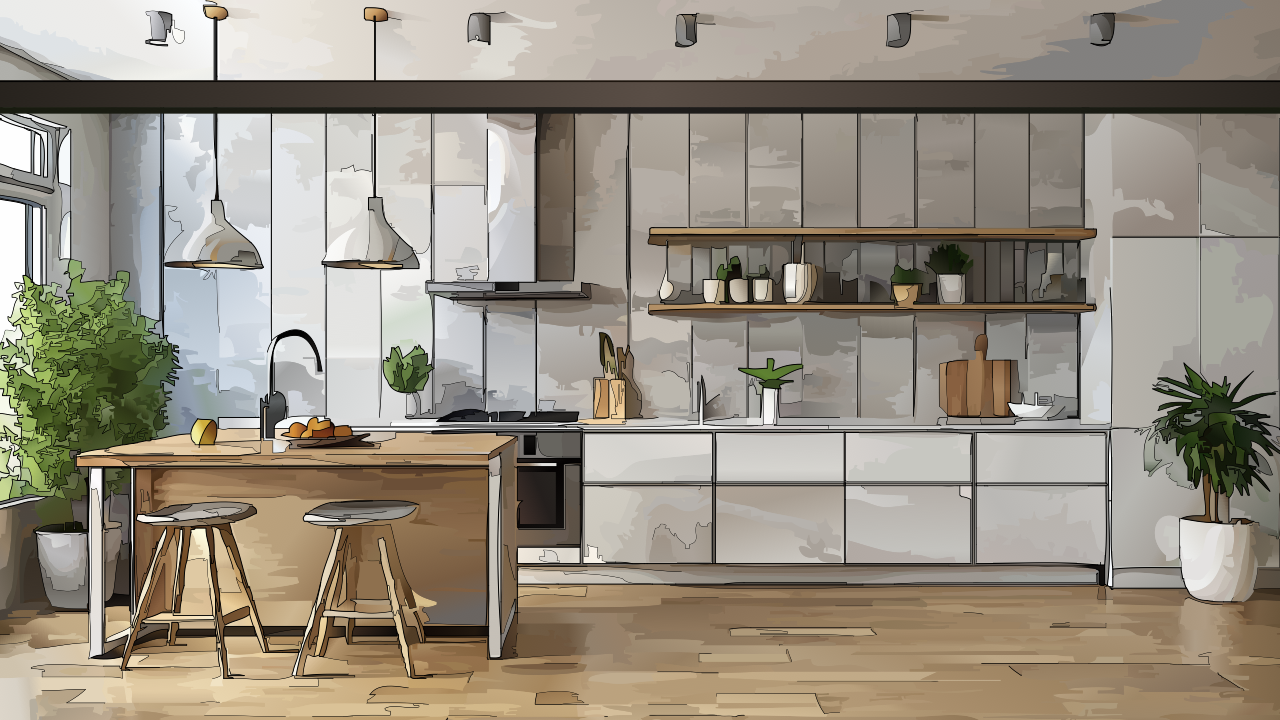
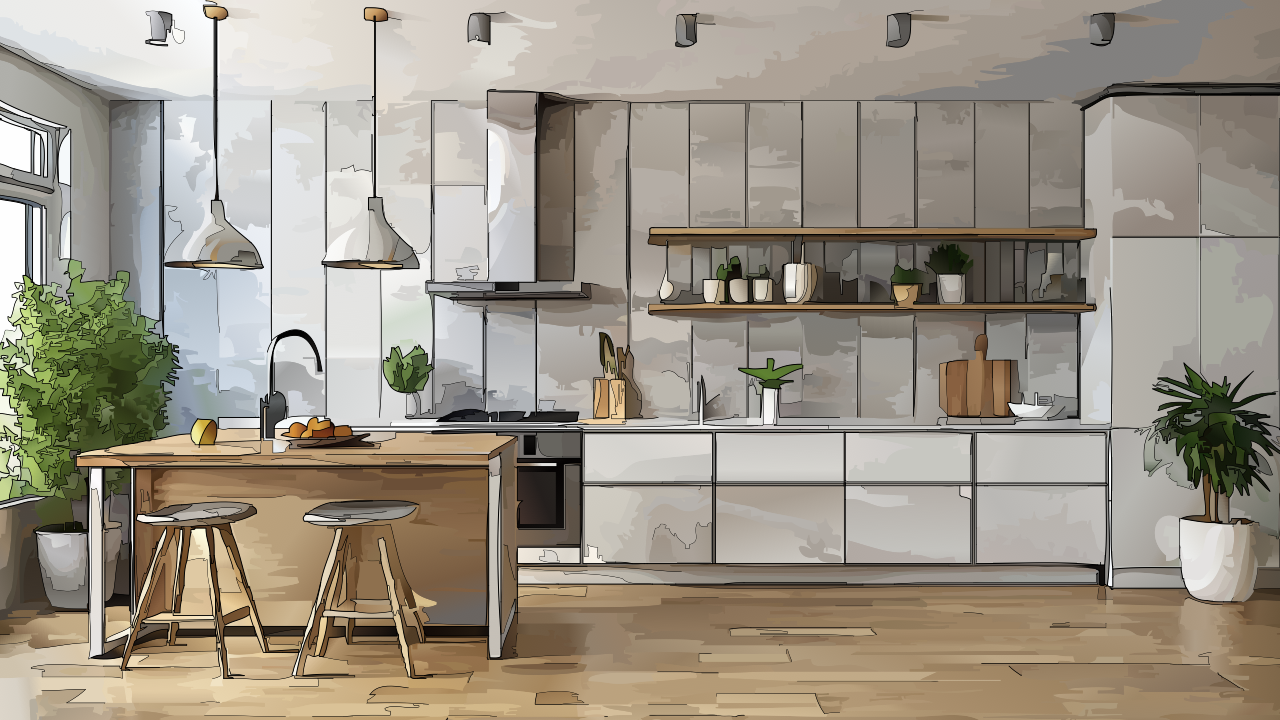
Resize hens and move beam (#22)
* Increase level time

* Replace kitchen bg image without beam

* Resize hens and specify beam dimensions and position

* Update chef sprite after merge problem

Changed region(s): [[0.0, 0.0917, 1.0, 0.1833]]

diff --git a/src/App.tsx b/src/App.tsx
@@ -45,7 +45,7 @@ function KonvaStageAndBackground({ children }: { children: React.ReactNode }) {
 		})
 	);
 
-	const [bgImage] = useImage('images/kitchen-bg-4.png');
+	const [kitchenBgImage] = useImage('images/kitchen-bg-4.png');
 	const [henBeamImage] = useImage('images/hen-beam-gray.png');
 	const [titleImage] = useImage('images/egg-drop-title-0.png');
 
@@ -61,7 +61,7 @@ function KonvaStageAndBackground({ children }: { children: React.ReactNode }) {
 					{/* Background kitchen image */}
 					<Group>
 						<Image
-							image={bgImage}
+							image={kitchenBgImage}
 							width={gameConfig.stageDimensions.width}
 							height={gameConfig.stageDimensions.height}
 						/>
@@ -75,9 +75,10 @@ function KonvaStageAndBackground({ children }: { children: React.ReactNode }) {
 						/>
 						<Image
 							image={henBeamImage}
-							width={gameConfig.stageDimensions.width}
-							height={35}
-							y={80}
+							width={gameConfig.henBeam.width}
+							height={gameConfig.henBeam.height}
+							x={gameConfig.henBeam.x}
+							y={gameConfig.henBeam.y}
 						/>
 					</Group>
 					{showGameIntro && (

diff --git a/src/Hen/Hen.tsx b/src/Hen/Hen.tsx
@@ -30,6 +30,7 @@ export function Hen({
 	henActorRef: ActorRefFrom<typeof henMachine>;
 }) {
 	const {
+		henSize,
 		henFrames,
 		position,
 		isLaying,
@@ -37,6 +38,10 @@ export function Hen({
 		movingDirection,
 		absoluteTweenSpeed,
 	} = useSelector(henActorRef, (state) => ({
+		henSize: {
+			width: state.context.gameConfig.hen.width,
+			height: state.context.gameConfig.hen.height,
+		},
 		henFrames: state.context.henAssets.sprite.frames,
 		position: state.context.position,
 		isMoving: state.matches('Moving'),
@@ -125,8 +130,8 @@ export function Hen({
 			image={image}
 			x={position.x}
 			y={position.y}
-			width={80}
-			height={80}
+			width={henSize.width}
+			height={henSize.height}
 			crop={{
 				x: currentFrame.x,
 				y: currentFrame.y,

diff --git a/src/GameLevel/gameConfig.ts b/src/GameLevel/gameConfig.ts
@@ -13,7 +13,7 @@ export function getGameConfig() {
 	// Somewhere between 0.25 and 0.75 is reasonable.
 	const eggFallingSpeed = 0.5;
 
-	const henSize = 150;
+	const henSize = 120;
 
 	const gameConfig = {
 		isMuted: true,
@@ -53,11 +53,17 @@ export function getGameConfig() {
 			height: henSize,
 			offstageLeftX: -henSize,
 			offstageRightX: stageDimensions.width + henSize,
-			y: 8,
+			y: -10,
 			// The delay between each hen entering the stage
 			staggeredEntranceDelay: 2000,
 			buttXOffset: 40,
 			buttYOffset: 65,
+		},
+		henBeam: {
+			width: stageDimensions.width,
+			height: 35,
+			x: 0,
+			y: 98,
 		},
 		egg: {
 			fallingSpeed: eggFallingSpeed,
